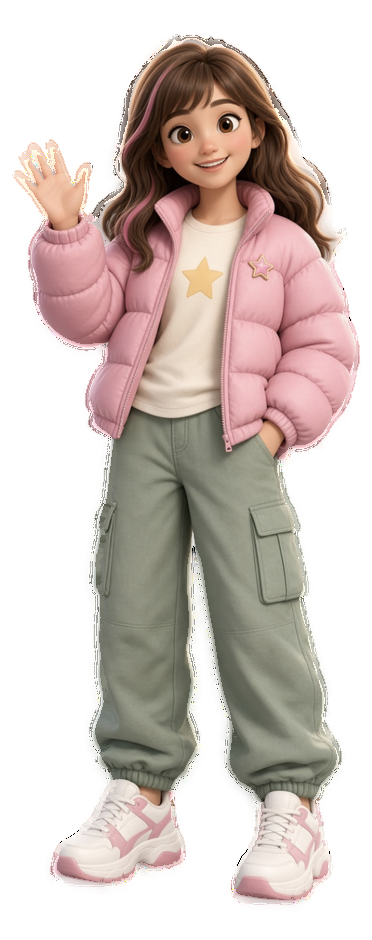
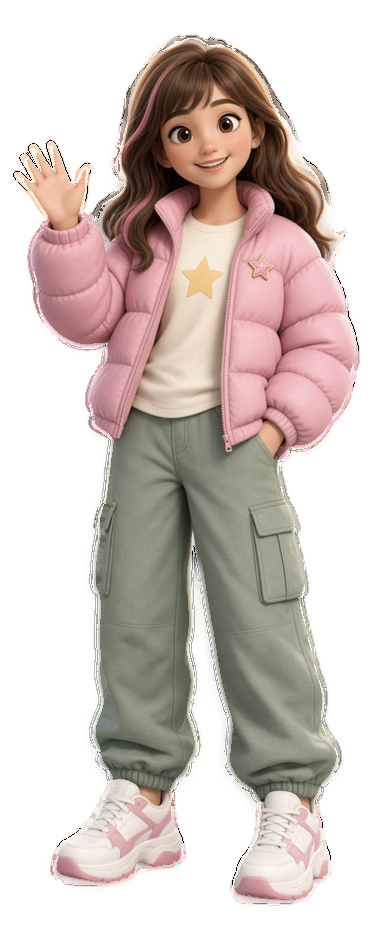
fix(angelina): premult Lanczos resize, edge clamp, core lum floor
Portrait/world derivatives now resize in premultiplied alpha space with
post-resize fringe RGB clamped to source 3x3 bounds. Nearest-core recolor
ignores core pixels darker than lum 60 when the source pixel is lighter.
Rebuild .candidate-review bundle; haloZero still fails on candidate.

diff --git a/scripts/build-angelina-skin-assets.py b/scripts/build-angelina-skin-assets.py
@@ -566,20 +566,78 @@ def crop_with_margin(img: Image.Image, margin_ratio: float = 0.022, margin_min: 
     return pad
 
 
+def resize_rgba_premultiplied_lanczos(img: Image.Image, size: tuple[int, int]) -> Image.Image:
+    """Lanczos resize in premultiplied α space, then unpremultiply where α > 0."""
+    w1, h1 = size
+    arr = np.asarray(img.convert("RGBA"), dtype=np.float32)
+    h0, w0 = arr.shape[:2]
+    if w0 == w1 and h0 == h1:
+        return img.convert("RGBA")
+    alpha = arr[:, :, 3] / 255.0
+    premul = arr[:, :, :3] * alpha[:, :, np.newaxis]
+
+    def _resize_plane(plane: np.ndarray) -> np.ndarray:
+        im = Image.fromarray(plane.astype(np.float32), mode="F")
+        return np.array(im.resize((w1, h1), Image.Resampling.LANCZOS), dtype=np.float32)
+
+    out_a = _resize_plane(arr[:, :, 3])
+    out_p = np.stack([_resize_plane(premul[:, :, c]) for c in range(3)], axis=-1)
+    out_af = np.clip(out_a / 255.0, 0.0, 1.0)
+    safe = np.maximum(out_af, 1.0 / 255.0)
+    out_rgb = out_p / safe[:, :, np.newaxis]
+    out = np.zeros((h1, w1, 4), dtype=np.uint8)
+    out[:, :, :3] = np.clip(np.round(out_rgb), 0, 255).astype(np.uint8)
+    out[:, :, 3] = np.clip(np.round(out_a), 0, 255).astype(np.uint8)
+    return Image.fromarray(out, "RGBA")
+
+
+def clamp_resize_edge_rgb(resized: Image.Image, source: Image.Image) -> Image.Image:
+    """Clamp semi-fringe and 2px opaque ring to source 3×3 per-channel min/max."""
+    rs = np.array(resized.convert("RGBA"), dtype=np.uint8)
+    src = np.array(source.convert("RGBA"), dtype=np.uint8)
+    sh, sw = src.shape[:2]
+    rh, rw = rs.shape[:2]
+    if rh == sh and rw == sw:
+        return resized
+    sx = sw / float(rw)
+    sy = sh / float(rh)
+    a = rs[:, :, 3]
+    semi = (a > 0) & (a < 255)
+    dist_to_semi = ndimage.distance_transform_edt(~semi)
+    ring = (a == 255) & (dist_to_semi <= 2)
+    mask = semi | ring
+    ys, xs = np.nonzero(mask)
+    for y, x in zip(ys.tolist(), xs.tolist()):
+        cx = min(sw - 1, max(0, int(round(x * sx))))
+        cy = min(sh - 1, max(0, int(round(y * sy))))
+        x0, x1 = max(0, cx - 1), min(sw, cx + 2)
+        y0, y1 = max(0, cy - 1), min(sh, cy + 2)
+        patch = src[y0:y1, x0:x1, :3]
+        for c in range(3):
+            lo = int(patch[:, :, c].min())
+            hi = int(patch[:, :, c].max())
+            rs[y, x, c] = np.clip(rs[y, x, c], lo, hi)
+    return Image.fromarray(rs, "RGBA")
+
+
 def portrait_variant(img: Image.Image, max_w: int = 372) -> Image.Image:
     cropped = crop_with_margin(img)
     w, h = cropped.size
     if w <= max_w:
         return cropped
     ratio = max_w / w
-    return cropped.resize((max_w, max(1, int(h * ratio))), Image.Resampling.LANCZOS)
+    new_h = max(1, int(h * ratio))
+    resized = resize_rgba_premultiplied_lanczos(cropped, (max_w, new_h))
+    return clamp_resize_edge_rgb(resized, cropped)
 
 
 def world_variant(img: Image.Image, out_w: int = 280) -> Image.Image:
     cropped = crop_with_margin(img)
     cw, ch = cropped.size
     ratio = out_w / cw
-    return cropped.resize((out_w, max(1, int(ch * ratio))), Image.Resampling.LANCZOS)
+    new_h = max(1, int(ch * ratio))
+    resized = resize_rgba_premultiplied_lanczos(cropped, (out_w, new_h))
+    return clamp_resize_edge_rgb(resized, cropped)
 
 
 def interior_rgb_sha256(rgba: Image.Image) -> str:
@@ -737,8 +795,22 @@ def _outline_near_white_halos_img(rgba: Image.Image) -> int:
 
 
 def _nearest_core_rgb(src_rgb: np.ndarray, core: np.ndarray) -> np.ndarray:
-    _, indices = ndimage.distance_transform_edt(~core, return_distances=True, return_indices=True)
-    return src_rgb[indices[0], indices[1]]
+    lum = (
+        src_rgb[:, :, 0].astype(np.int32)
+        + src_rgb[:, :, 1].astype(np.int32)
+        + src_rgb[:, :, 2].astype(np.int32)
+    ) // 3
+    core_bright = core & (lum >= 60)
+    _, idx_all = ndimage.distance_transform_edt(~core, return_distances=True, return_indices=True)
+    out_all = src_rgb[idx_all[0], idx_all[1]]
+    if not np.any(core_bright):
+        return out_all
+    dist_b, idx_b = ndimage.distance_transform_edt(
+        ~core_bright, return_distances=True, return_indices=True
+    )
+    out_b = src_rgb[idx_b[0], idx_b[1]]
+    use_bright = (lum >= 60) & np.isfinite(dist_b)
+    return np.where(use_bright[:, :, np.newaxis], out_b, out_all)
 
 
 def _apply_candidate_alpha255_lock(

diff --git a/scripts/build-angelina-candidate-review.py b/scripts/build-angelina-candidate-review.py
@@ -68,6 +68,19 @@ def _gate_table(prelocks, slug_map, rel_prefix: str) -> dict:
             "semiLockBand": "alpha_ref in [0.75,0.80) and dist_in>=2",
             "componentHaloFix": "A portrait/world browser+lanczos; C world lanczos greyMatt CC recolor",
             "semiExteriorDecontam": False,
+            "nearestCoreMinLum": 60,
+        },
+        "resizePipeline": {
+            "portraitWorldRgbBeforeThisIteration": (
+                "straight RGBA Lanczos via PIL (not premultiplied)"
+            ),
+            "portraitWorldRgbNow": (
+                "premultiplied α Lanczos on R,G,B and separate α, unpremultiply; "
+                "then clamp semi + 2px opaque ring to source 3×3 min/max per channel"
+            ),
+            "sixd21AlphaMatteResizeInCompose": (
+                "single-channel α Lanczos to match variant size (premult N/A)"
+            ),
         },
         "alpha255Share": {k: round(v, 4) for k, v in shares.items()},
         "minAlpha255Share": round(min_a255, 4),

diff --git a/assets/ui/angelina-skins/.candidate-review/README.md b/assets/ui/angelina-skins/.candidate-review/README.md
@@ -19,17 +19,23 @@ These WebPs are **not** referenced by `angelina-skin-manifest.json` or the game.
     "inset": 1,
     "semiLockBand": "alpha_ref in [0.75,0.80) and dist_in>=2",
     "componentHaloFix": "A portrait/world browser+lanczos; C world lanczos greyMatt CC recolor",
-    "semiExteriorDecontam": false
+    "semiExteriorDecontam": false,
+    "nearestCoreMinLum": 60
+  },
+  "resizePipeline": {
+    "portraitWorldRgbBeforeThisIteration": "straight RGBA Lanczos via PIL (not premultiplied)",
+    "portraitWorldRgbNow": "premultiplied \u03b1 Lanczos on R,G,B and separate \u03b1, unpremultiply; then clamp semi + 2px opaque ring to source 3\u00d73 min/max per channel",
+    "sixd21AlphaMatteResizeInCompose": "single-channel \u03b1 Lanczos to match variant size (premult N/A)"
   },
   "alpha255Share": {
-    "A_portrait": 0.9339,
-    "A_world": 0.9251,
-    "B_portrait": 0.929,
-    "B_world": 0.9082,
-    "C_portrait": 0.934,
-    "C_world": 0.9145
+    "A_portrait": 0.9301,
+    "A_world": 0.9136,
+    "B_portrait": 0.9314,
+    "B_world": 0.9107,
+    "C_portrait": 0.9351,
+    "C_world": 0.9138
   },
-  "minAlpha255Share": 0.9082,
+  "minAlpha255Share": 0.9107,
   "alpha255ShareGate": true,
   "silhouetteNearWhite": {
     "A_portrait": 0,
@@ -42,27 +48,27 @@ These WebPs are **not** referenced by `angelina-skin-manifest.json` or the game.
   "silhouetteGate": true,
   "haloBadPx": {
     "A_portrait": {
-      "browser": 3,
-      "lanczos": 17
+      "browser": 8,
+      "lanczos": 1
     },
     "A_world": {
-      "browser": 3,
-      "lanczos": 7
+      "browser": 15,
+      "lanczos": 14
     },
     "B_portrait": {
-      "browser": 0,
+      "browser": 1,
       "lanczos": 0
     },
     "B_world": {
-      "browser": 0,
+      "browser": 1,
       "lanczos": 0
     },
     "C_portrait": {
-      "browser": 0,
-      "lanczos": 0
+      "browser": 2,
+      "lanczos": 2
     },
     "C_world": {
-      "browser": 0,
+      "browser": 2,
       "lanczos": 6
     }
   },
@@ -72,3 +78,5 @@ These WebPs are **not** referenced by `angelina-skin-manifest.json` or the game.
 ```
 
 **Ship decision:** KEEP ab6fa302 (one or more gates fail)
+
+**npm ci && npm run test:life-ch1** (shipped ab6fa302): exit **1** (angelina-skin-halo.js on baseline).
